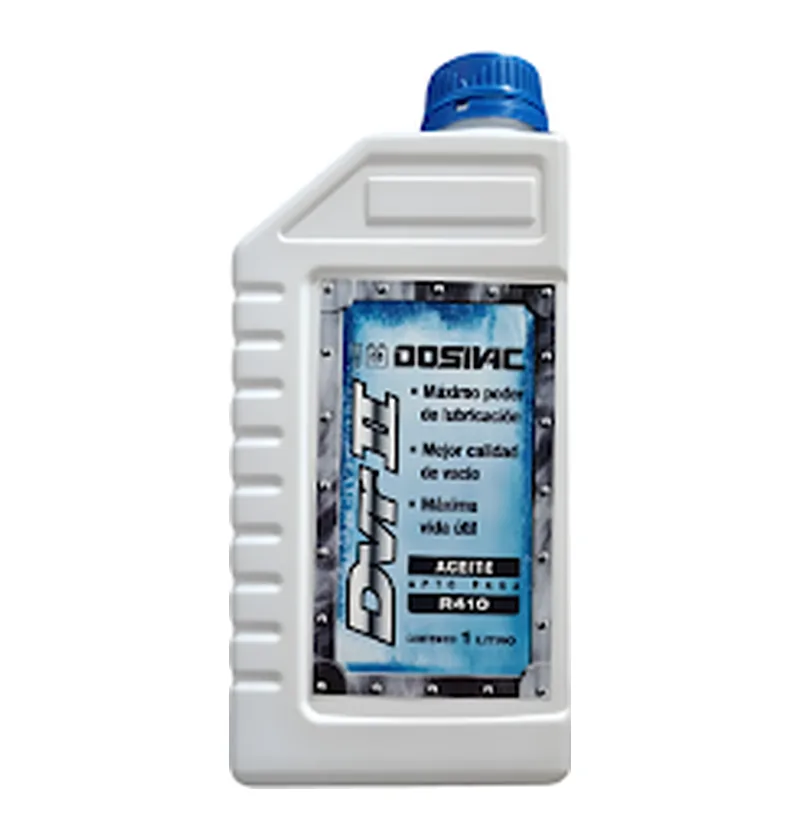
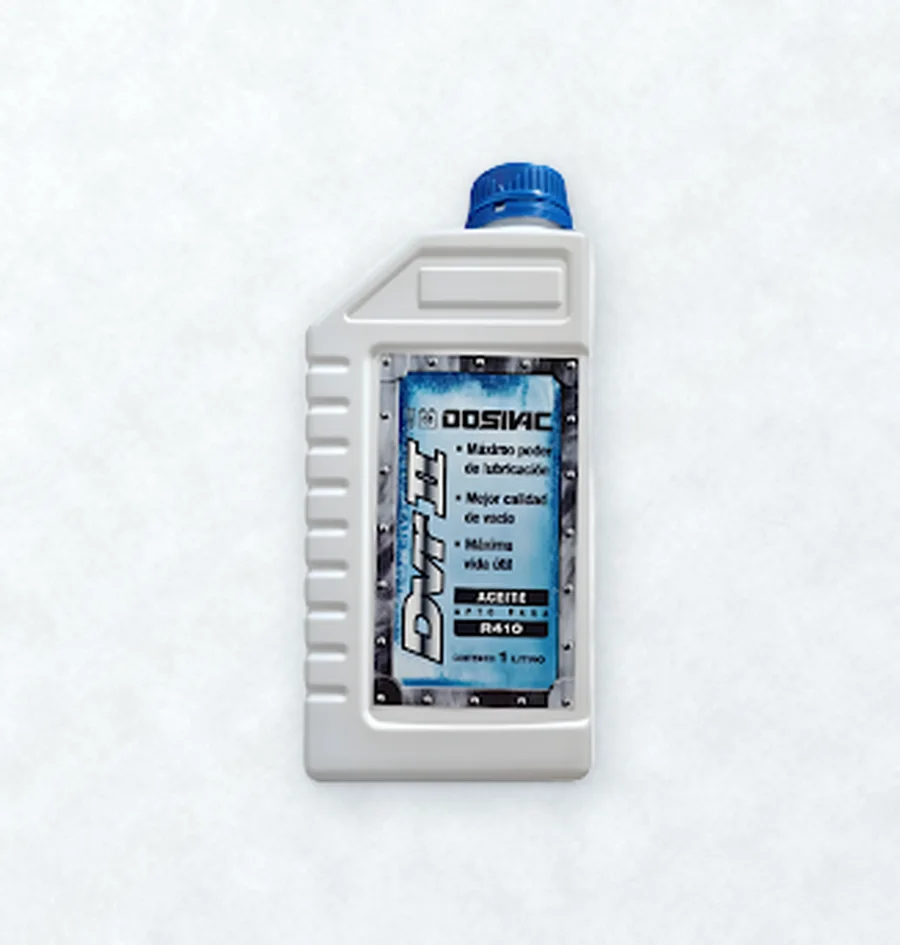
Combo: fotos con el mismo estilo de pared y kits armados para los manifolds

Changed region(s): [[0.2812, 0.0619, 0.7188, 0.9595]]

diff --git a/NOTAS.md b/NOTAS.md
@@ -80,6 +80,11 @@ datos personales, vínculos comerciales privados). El dueño los explica en el c
      VP1, VP2 y aceite van con la original. Siempre comparar con zoom antes de usar una foto mejorada.
    - Pendiente opcional: una foto mejor del aceite (la botella original mide ~107×227 px y se ve algo suave),
      y el producto es "x 2u" pero la foto muestra una botella.
+   - **Estilo de fotos** (pedido del dueño): todas como `img/bomba-vacio.webp`, `vacuometro.webp` y
+     `manifold-digital.webp` → producto sobre pared gris celeste clara con sombra suave, 900×945. Se hacen así:
+     `remove_background` de Higgsfield (1 crédito) solo como máscara + píxeles de la foto original encima, sobre un
+     fondo generado por código. Los kits (manifold de aluminio y digital sin app) imitan `manifold-digital.webp`:
+     valija abierta y valija/caja atrás, manifold adelante. Nada redibujado por IA.
    - Claude **sí puede** ver las fotos: las baja de Drive (`uc?export=download&id=ID`) y las mira localmente.
 3. **Publicar el combo** cuando el dueño dé el OK: botón "Armá tu combo" en la página principal, quitar el
    `noindex` de `combo.html`, agregarla a `sitemap.xml`, actualizar `data/productos.json` y pedir merge.
